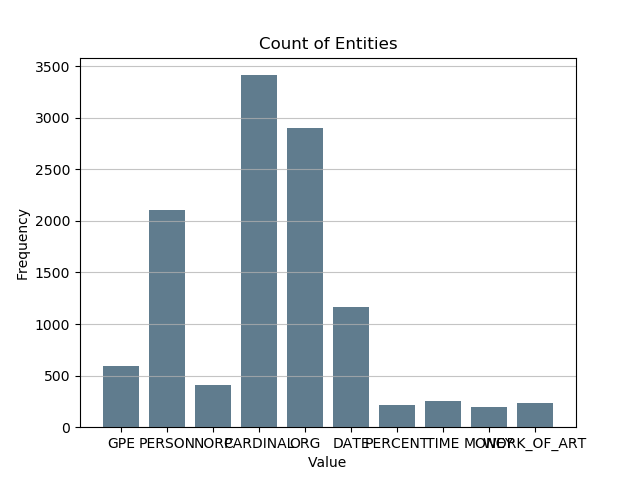
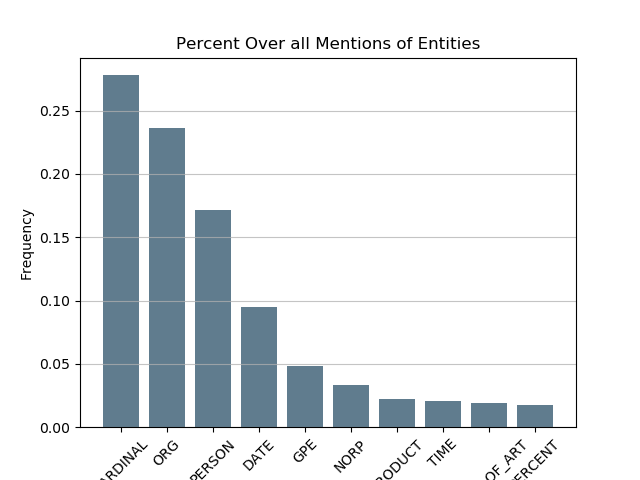
Fix tuple issue

diff --git a/analysis_script.py b/analysis_script.py
@@ -70,14 +70,18 @@ class TextDataset:
         obj=namedtuple(typename='test', field_names=['index', 'values'])
         counter_all_entities=zip(*Counter(all_entities).most_common())
         obj.index, obj.values = (next(counter_all_entities), next(counter_all_entities))
-        plt=plot_histogram(obj, x_label='Entities', y_label='Count', bar_chart=True)
+        # normalize counts
+        total = sum(Counter(all_entities).values(), 0.0)
+        breakpoint()
+        obj.values=[val/total for val in obj.values]
+        plt=plot_histogram(obj, x_label='Entities', y_label='Percent Over all Mentions', bar_chart=True)
         plt.xticks(rotation = 45) # Rotates X-Axis Ticks by 45-degrees
 
         os.makedirs(os.path.join('visualizations', self.dataset_name), exist_ok=True)
         plt.savefig(os.path.join('visualizations', self.dataset_name, 'ner_count.png'))
         plt.close()
         
-        return Counter(all_np).most_common(20), Counter(all_vp).most_common(20), counter_all_entities.most_common(20)
+        return Counter(all_np).most_common(20), Counter(all_vp).most_common(20), Counter(all_entities).most_common(20)
     
 if __name__ == "__main__":
     parser = argparse.ArgumentParser(description='')
@@ -97,4 +101,8 @@ if __name__ == "__main__":
     dataset.get_pos_hist(args)
     
         #todo add normalization
-    print("Nouns, Verbs, Entities Counts: \n", dataset.get_ner_hist(args))
+    np, vp, ent_a = dataset.get_ner_hist(args)
+    print("Nouns, Verbs, Entities Counts: \n" )
+    print("NP\n", np)
+    print("VP\n", vp)
+    print("Entities\n", ent_a)

diff --git a/README.md b/README.md
@@ -3,7 +3,7 @@
 2) The run analysis_script using the following arguments: ```python analysis_script.py --dataset mami --data_path ./Data/TRAINING/training.csv```
 3) Be sure to grab any visualizations in the visualizations folder
 
-* if you want to do analysis on a different dataset add code under an additional if statement whereever there is 'if self.dataset_name'
+* if you want to do analysis on a different dataset add code under an additional if statement whereever there is 'if self.dataset_name' and make sure the text is tokenized for self.df['text']. See how its done for mami as reference.
 * for the bar chart I take only the top ten {x-axis unit} but you should change this if you want more 
 # For training
 
